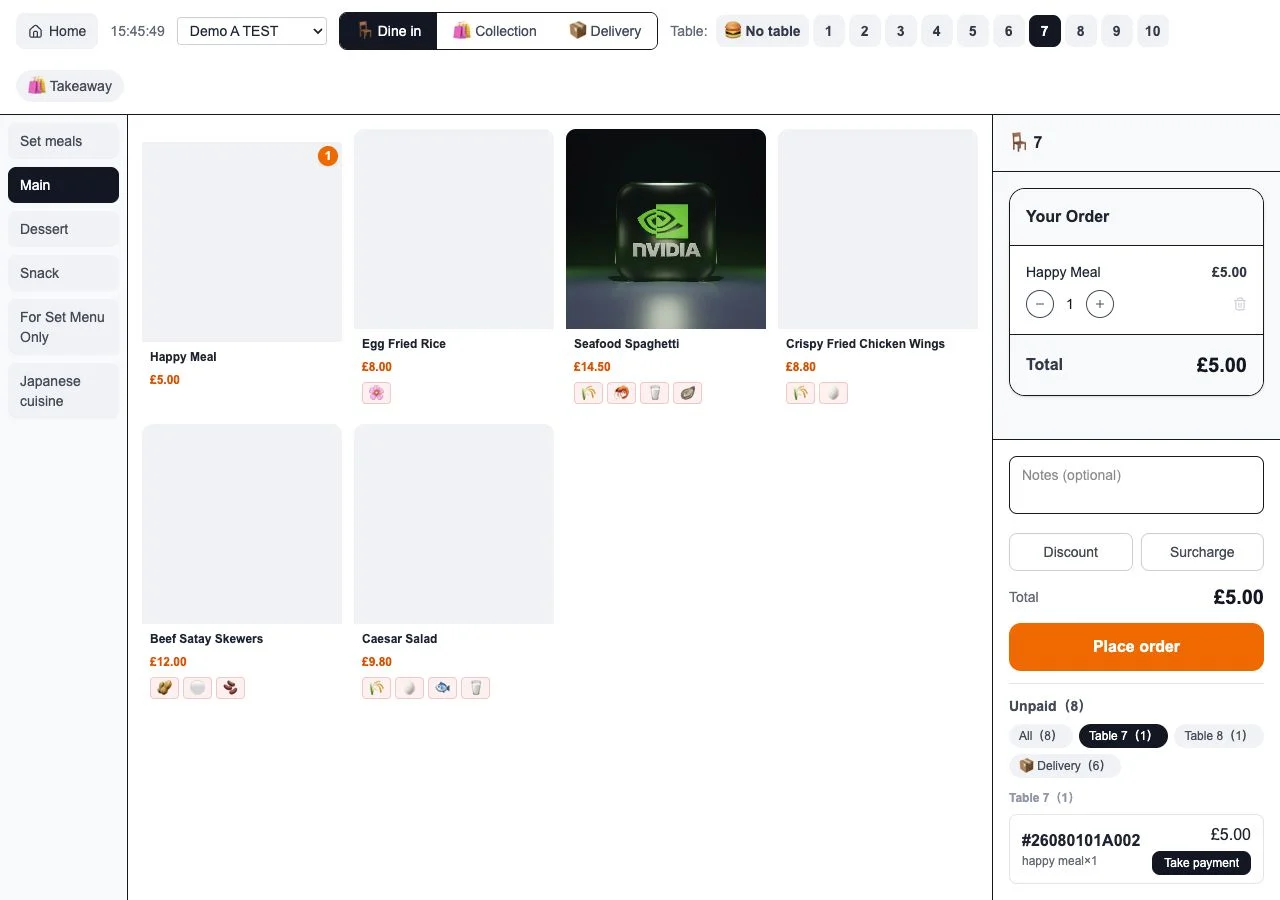
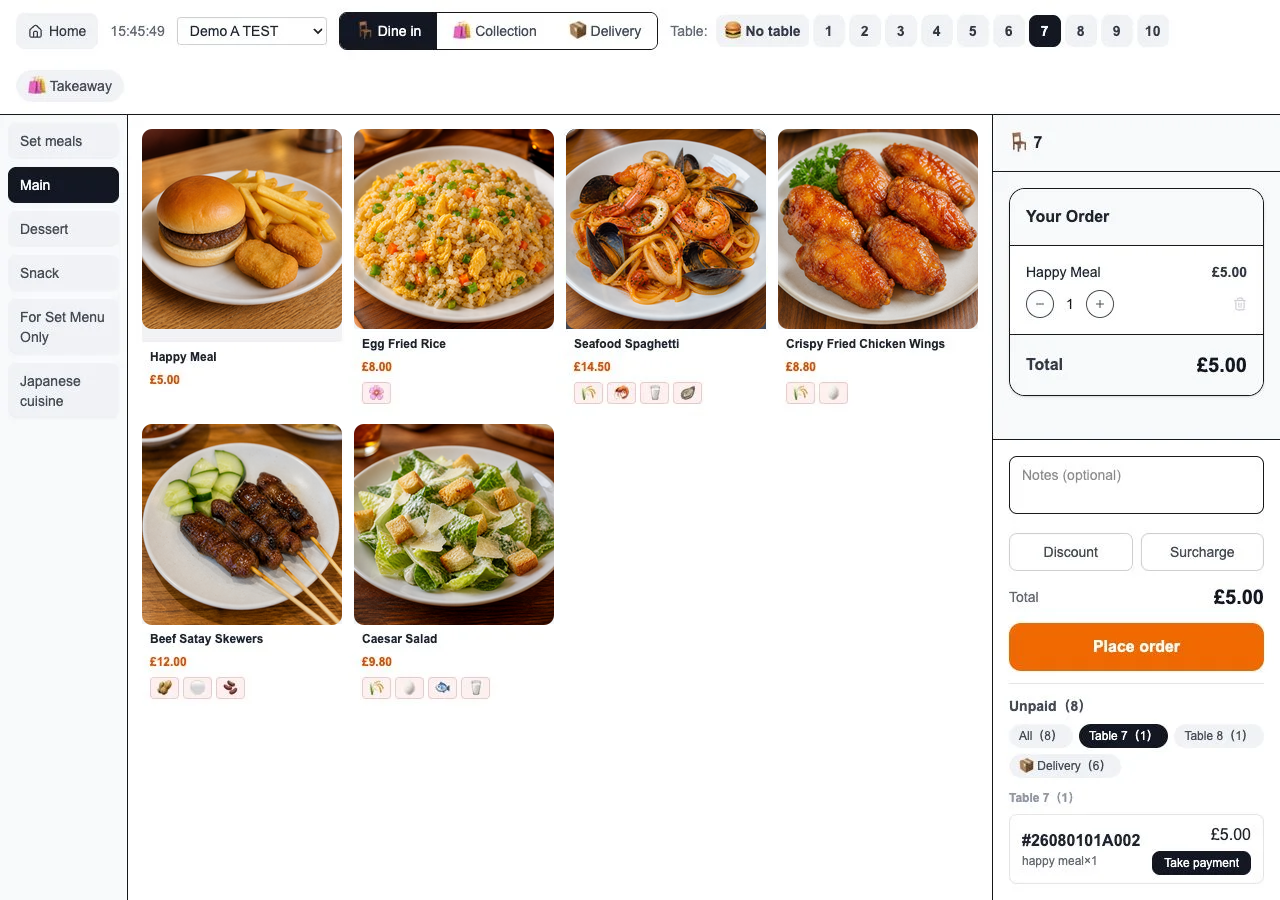
assets(landing): replace demo menu tiles with food photos

Changed region(s): [[0.0938, 0.1244, 0.7812, 0.3733], [0.0938, 0.4667, 0.4375, 0.7156]]

diff --git a/.superpowers/sdd/2026-08-10-order-entry-food-photos-and-pricing-labels/task-1-report.md b/.superpowers/sdd/2026-08-10-order-entry-food-photos-and-pricing-labels/task-1-report.md
@@ -1,0 +1,33 @@
+# Task 1 report — order-entry food photographs
+
+## Deliverables
+
+- Replaced only the six approved rounded menu-image tiles in `public/pos-demo/order-entry.webp` with original food photographs: Happy Meal, Egg Fried Rice, Seafood Spaghetti, Crispy Fried Chicken Wings, Beef Satay Skewers and Caesar Salad.
[1 lines of base64/hex data omitted]
+- Added a decode-based asset test against the version-controlled preserved baseline at `tests/fixtures/pos-demo-order-entry-baseline.webp`. It requires six changed, nonblank and distinct food tiles, plus exact decoded-pixel equality outside the six rounded masks.
+- Updated the screenshot register with the current byte count, SHA-256 and generated-food provenance.
+
+## Source provenance and inspection
+
+All six were generated separately with the built-in image-generation tool, then copied to `/private/tmp/shopops-order-entry-food-2026-08-10/` and opened from those local copies for inspection. Every accepted source uses a neutral plate, warm casual-restaurant lighting and square framing; no source contains people, brands, packaging, text or watermark.
+
+| Dish | Local source | Inspection result |
+|---|---|---|
+| Happy Meal | `happy-meal.png` | Plain burger, fries and chicken nuggets clearly visible |
+| Egg Fried Rice | `egg-fried-rice.png` | Fried rice, egg, spring onion and vegetables clearly visible |
+| Seafood Spaghetti | `seafood-spaghetti.png` | Spaghetti with prawns, mussels and calamari clearly visible |
+| Crispy Fried Chicken Wings | `fried-chicken-wings.png` | Six fried chicken wings clearly visible |
+| Beef Satay Skewers | `beef-satay-skewers.png` | Grilled beef skewers and cucumber clearly visible |
+| Caesar Salad | `caesar-salad.png` | Romaine, croutons, parmesan and dressing clearly visible |
+
+## Composition and validation
+
+- Sharp resized each source using `resize({ width, height, fit: "cover" })`, applied a `10 px` rounded alpha mask, then composited it at the exact required coordinates. The WebP is lossless so decoded pixels outside those masks remain unchanged.
+- RED confirmed before composition: `node --test tests/pos-demo-assets.test.mjs` failed because the baseline `happy-meal` tile had not yet changed.
+- GREEN confirmed after composition: focused asset test passed `4/4`, including true Sharp decoding and the outside-mask pixel comparison.
+- Original-size visual QA opened the completed screenshot and confirmed all six visible labels match their food photos.
+- Full `npm run verify` passed: content tests `70/70`, ESLint, route type generation, TypeScript, WCAG contrast and production build. `git diff --check` passed.
+
+## Scope
+
+Only Task 1 files were changed. No pricing copy or labels were edited.

diff --git a/docs/pos-demo-screenshot-register.md b/docs/pos-demo-screenshot-register.md
@@ -2,12 +2,13 @@
 
 - Scope: 18 English demo-interface WebP assets used by the POS feature page.
 - Existing workflow assets: manually re-opened at original size on 2026-08-06 (BST); English demo UI, no visible PII or commercial data, and readable at source size.
+- `order-entry.webp` now uses six original generated food photographs for Happy Meal, Egg Fried Rice, Seafood Spaghetti, Crispy Fried Chicken Wings, Beef Satay Skewers and Caesar Salad; the surrounding product UI remains unchanged.
 - New Core/add-on assets: copied unchanged from the isolated POS screenshot harness handoff. Its 2026-08-06 review opened all 14 files at original size and approved English UI, fictional data, PII/commercial-data safety and readability. `bilingual` intentionally shows fictional Chinese dish names in a labelled translation preview.
 - Hashes and byte counts below are recalculated from the Landing copies, not copied from prose.
 
 | Asset | Stable ID | Public path | Language | Dimensions | Bytes | SHA-256 | English / PII / commercial data / readability |
 |---|---|---|---|---:|---:|---|---|
[5 lines of base64/hex data omitted]
